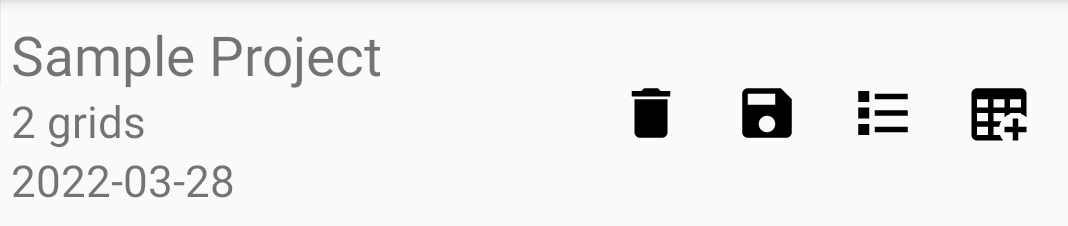
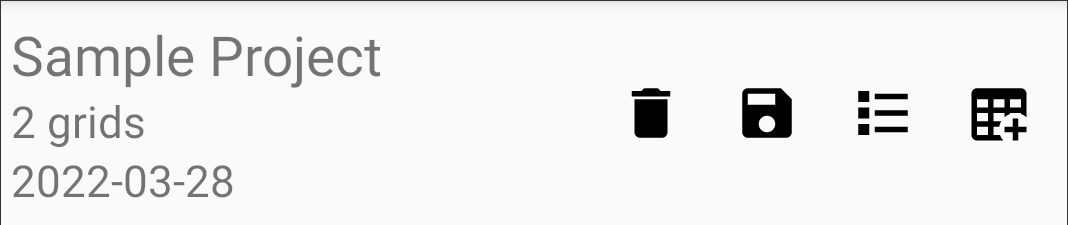
docs

diff --git a/docs/source/projects.rst b/docs/source/projects.rst
@@ -4,20 +4,24 @@ Projects
 Groups of grids can be organized into a single project, simplifying data collection for larger experiments. Projects can be exported as a single file or multiple files, adjustable in the :doc:`/settings`. Grids can be added to Projects when they're created or from the :doc:`/collect` screen.
 
 .. figure:: /_static/images/project_list_framed.png
-   :width: 40%
+   :width: 30%
    :align: center
    :alt: Project list layout
 
+
 List Layout
 -----------
+
 .. figure:: /_static/images/project_list_item.png
-   :width: 40%
+   :width: 60%
    :align: center
    :alt: Project list item
+
 
 Each project in the list contains the project name, number of grids, and date created on the left.
 
 Action buttons on the right of each list item allow a project to be deleted (|delete|), exported (|save|), grids in the project to be viewed (|grid-list|), or new grids to be created from that project (|grid-add|).
+
 
 New Projects
 ------------

diff --git a/docs/source/export.rst b/docs/source/export.rst
@@ -1,6 +1,10 @@
 Exporting data
 ==============
 
-Once you are finished collecting data, grids can be exported by selecting the ‘Export’ option from either the grid list item or, if they are a part of a project, the project list item.
+Once you are finished collecting data, grids can be exported by selecting the ‘Export’ (|save|) option from either the grid list item or, if they are a part of a project, the project list item.
 
-A default filename containing the grid name and current date is prefilled but can be edited prior to export. Exported grids are saved in a CSV format that is located in the “Exports” directory.
+A default filename containing the grid name and current date is prefilled and can be edited prior to export. Exported grids are saved in CSV format and are located in the “Exports” directory.
+
+
+.. |save| image:: /_static/icons/save.png
+  :width: 20

diff --git a/docs/source/templates.rst b/docs/source/templates.rst
@@ -13,9 +13,10 @@ List Layout
 -----------
 
 .. figure:: /_static/images/template_list_item.png
-   :width: 30%
+   :width: 60%
    :align: center
    :alt: Template list item
+
 
 Each template in the list contains the template name, size, and date created on the left.
 
@@ -25,9 +26,10 @@ Action buttons on the right of each template list item allow non-default templat
 New Templates
 -------------
 .. figure:: /_static/images/template_new_process.png
-   :width: 80%
+   :width: 95%
    :align: center
    :alt: Template screen layout
+
 
 Templates can be created by selecting the New Template icon (|template-add|) or imported by selecting the Import icon (|import|) on the top toolbar. Creating a new template opens a step-wise process that allows for additional customization.
 

diff --git a/docs/source/grids.rst b/docs/source/grids.rst
@@ -12,9 +12,10 @@ List Layout
 -----------
 
 .. figure:: /_static/images/grid_list_item.png
-   :width: 30%
+   :width: 60%
    :align: center
    :alt: Grid list item
+
 
 Each grid in the list contains the grid name or identifier, parent template, and date created on the left.
 
@@ -24,9 +25,10 @@ Action buttons on the right of each list item allow a grid to be deleted (|delet
 New Grids
 ---------
 .. figure:: /_static/images/grid_new_process.png
-   :width: 60%
+   :width: 70%
    :align: center
    :alt: Template screen layout
+
 
 Grids can be created by selecting the New Grid icon (|grid-add|) from the top toolbar, a template list item, or a project list item. Creating a new grid opens a step-wise process.
 

diff --git a/docs/source/collect.rst b/docs/source/collect.rst
@@ -9,6 +9,7 @@ Data Input
    :align: center
    :alt: Collect data layout
 
+
 Each cell within a grid can hold a single string of data (such as a plant barcode). Data can be input via the text box below the grid. Sample barcodes can be rapidly scanned to increase data throughput using the barcode button next to data textbox (|barcode|).
 
 The current cell is highlighted in orange. Cells containing saved data turn dark blue. Cells that have been excluded from holding data in a given grid are grey.
